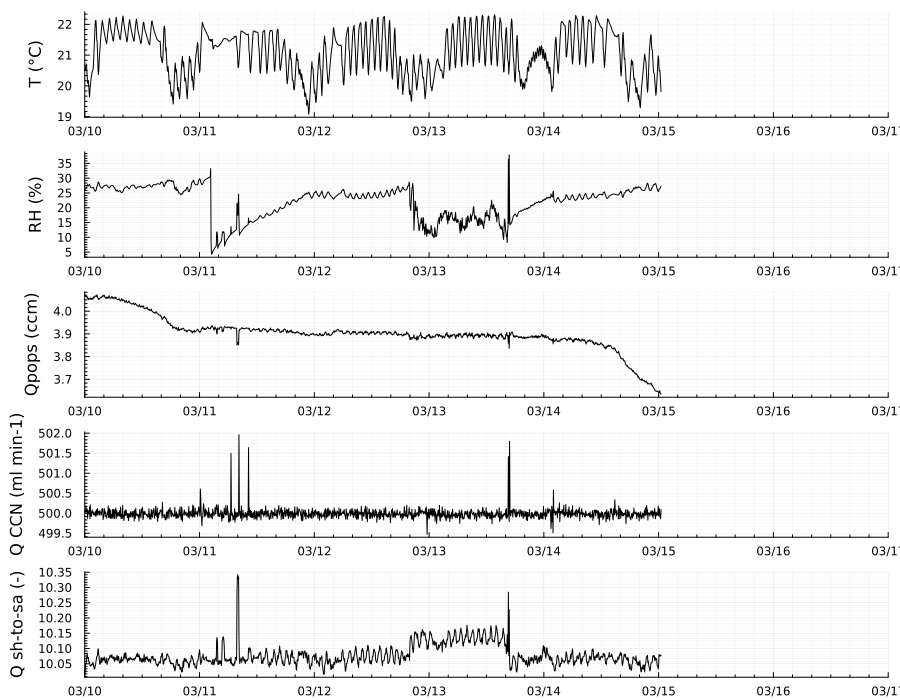
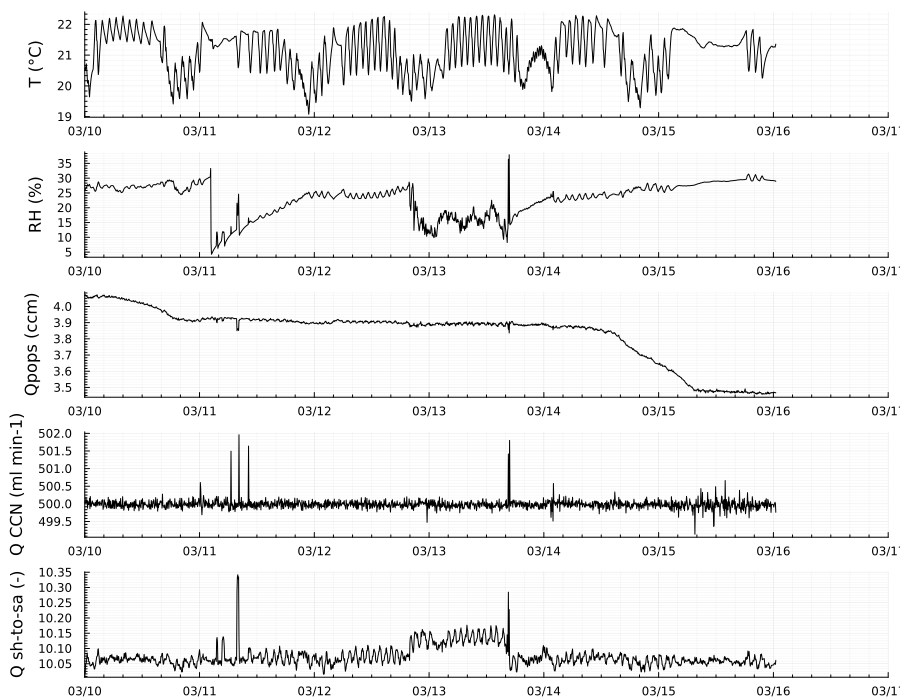
update site

diff --git a/index.html b/index.html
@@ -1,2 +1,2 @@
 <!DOCTYPE html>
-<html lang="en"><head><meta charset="UTF-8"/><meta name="viewport" content="width=device-width, initial-scale=1.0"/><title>Home · EPCAPE-CCN</title><script data-outdated-warner src="assets/warner.js"></script><link href="https://cdnjs.cloudflare.com/ajax/libs/lato-font/3.0.0/css/lato-font.min.css" rel="stylesheet" type="text/css"/><link href="https://cdnjs.cloudflare.com/ajax/libs/juliamono/0.045/juliamono.min.css" rel="stylesheet" type="text/css"/><link href="https://cdnjs.cloudflare.com/ajax/libs/font-awesome/5.15.4/css/fontawesome.min.css" rel="stylesheet" type="text/css"/><link href="https://cdnjs.cloudflare.com/ajax/libs/font-awesome/5.15.4/css/solid.min.css" rel="stylesheet" type="text/css"/><link href="https://cdnjs.cloudflare.com/ajax/libs/font-awesome/5.15.4/css/brands.min.css" rel="stylesheet" type="text/css"/><link href="https://cdnjs.cloudflare.com/ajax/libs/KaTeX/0.13.24/katex.min.css" rel="stylesheet" type="text/css"/><script>documenterBaseURL="."</script><script src="https://cdnjs.cloudflare.com/ajax/libs/require.js/2.3.6/require.min.js" data-main="assets/documenter.js"></script><script src="siteinfo.js"></script><script src="../versions.js"></script><link class="docs-theme-link" rel="stylesheet" type="text/css" href="assets/themes/documenter-dark.css" data-theme-name="documenter-dark" data-theme-primary-dark/><link class="docs-theme-link" rel="stylesheet" type="text/css" href="assets/themes/documenter-light.css" data-theme-name="documenter-light" data-theme-primary/><script src="assets/themeswap.js"></script></head><body><div id="documenter"><nav class="docs-sidebar"><a class="docs-logo" href><img src="assets/logo.jpg" alt="EPCAPE-CCN logo"/></a><div class="docs-package-name"><span class="docs-autofit"><a href>EPCAPE-CCN</a></span></div><form class="docs-search" action="search/"><input class="docs-search-query" id="documenter-search-query" name="q" type="text" placeholder="Search docs"/></form><ul class="docs-menu"><li class="is-active"><a class="tocitem" href>Home</a><ul class="internal"><li><a class="tocitem" href="#EPCAPE"><span>EPCAPE</span></a></li><li><a class="tocitem" href="#System"><span>System</span></a></li><li><a class="tocitem" href="#Location"><span>Location</span></a></li><li><a class="tocitem" href="#Contact"><span>Contact</span></a></li><li><a class="tocitem" href="#Acknowledgements"><span>Acknowledgements</span></a></li></ul></li><li><a class="tocitem" href="quicklook/">Quicklooks</a></li><li><a class="tocitem" href="housekeeping/">Housekeeping</a></li></ul><div class="docs-version-selector field has-addons"><div class="control"><span class="docs-label button is-static is-size-7">Version</span></div><div class="docs-selector control is-expanded"><div class="select is-fullwidth is-size-7"><select id="documenter-version-selector"></select></div></div></div></nav><div class="docs-main"><header class="docs-navbar"><nav class="breadcrumb"><ul class="is-hidden-mobile"><li class="is-active"><a href>Home</a></li></ul><ul class="is-hidden-tablet"><li class="is-active"><a href>Home</a></li></ul></nav><div class="docs-right"><a class="docs-edit-link" href="https://github.com/mdp-aerosol-group/epcapeDAQ/blob/main/site/src/index.md" title="Edit on GitHub"><span class="docs-icon fab"></span><span class="docs-label is-hidden-touch">Edit on GitHub</span></a><a class="docs-settings-button fas fa-cog" id="documenter-settings-button" href="#" title="Settings"></a><a class="docs-sidebar-button fa fa-bars is-hidden-desktop" id="documenter-sidebar-button" href="#"></a></div></header><article class="content" id="documenter-page"><h1 id="Home"><a class="docs-heading-anchor" href="#Home">Home</a><a id="Home-1"></a><a class="docs-heading-anchor-permalink" href="#Home" title="Permalink"></a></h1><h2 id="EPCAPE"><a class="docs-heading-anchor" href="#EPCAPE">EPCAPE</a><a id="EPCAPE-1"></a><a class="docs-heading-anchor-permalink" href="#EPCAPE" title="Permalink"></a></h2><p>The focus of the Eastern Pacific Cloud Aerosol Precipitation Experiment (EPCAPE) is to characterize the extent, radiative properties, aerosol interactions, and precipitation characteristics of stratocumulus clouds in the Eastern Pacific across all four seasons at a coastal location, such as the Scripps Pier and the Scripps Mt. Soledad sites in La Jolla. </p><p>This page is dedicated to host quicklooks for a portion of the NSF-funded addon EPCAPE-CCC project. The focus of EPCAPE-CCC is to explore aerosol and cloud chemistry interactions at the ancilliary Mt. Soledad site.</p><h2 id="System"><a class="docs-heading-anchor" href="#System">System</a><a id="System-1"></a><a class="docs-heading-anchor-permalink" href="#System" title="Permalink"></a></h2><p>NC State University is deploying a size-resolved CCN system that measures the particle size distribution and CCN distribution for denuded and undenuded CCN. </p><h2 id="Location"><a class="docs-heading-anchor" href="#Location">Location</a><a id="Location-1"></a><a class="docs-heading-anchor-permalink" href="#Location" title="Permalink"></a></h2><p>The system is located inside a trailer at the Mt. Soledad site, shown on the left of the image. The DOE-AMF is located at the Scripps Pier shown toward the right of the image. </p><p><img src="assets/site.jpeg" alt/></p><h2 id="Contact"><a class="docs-heading-anchor" href="#Contact">Contact</a><a id="Contact-1"></a><a class="docs-heading-anchor-permalink" href="#Contact" title="Permalink"></a></h2><p>Contact: Markus Petters, <a href="mailto:mdpetter@ncsu.edu">mdpetter@ncsu.edu</a>.</p><h2 id="Acknowledgements"><a class="docs-heading-anchor" href="#Acknowledgements">Acknowledgements</a><a id="Acknowledgements-1"></a><a class="docs-heading-anchor-permalink" href="#Acknowledgements" title="Permalink"></a></h2><p>The EPCAPE campaign is supported by the <a href="https://www.arm.gov/research/campaigns/amf2023epcape">DOE-ARM</a> program. The denuded CCN measurements are supported by National Science Foundation award NSF-AGS 2133183. </p></article><nav class="docs-footer"><a class="docs-footer-nextpage" href="quicklook/">Quicklooks »</a><div class="flexbox-break"></div><p class="footer-message">Powered by <a href="https://github.com/JuliaDocs/Documenter.jl">Documenter.jl</a> and the <a href="https://julialang.org/">Julia Programming Language</a>.</p></nav></div><div class="modal" id="documenter-settings"><div class="modal-background"></div><div class="modal-card"><header class="modal-card-head"><p class="modal-card-title">Settings</p><button class="delete"></button></header><section class="modal-card-body"><p><label class="label">Theme</label><div class="select"><select id="documenter-themepicker"><option value="documenter-light">documenter-light</option><option value="documenter-dark">documenter-dark</option></select></div></p><hr/><p>This document was generated with <a href="https://github.com/JuliaDocs/Documenter.jl">Documenter.jl</a> version 0.27.24 on <span class="colophon-date" title="Tuesday 14 March 2023 20:41">Tuesday 14 March 2023</span>. Using Julia version 1.8.5.</p></section><footer class="modal-card-foot"></footer></div></div></div></body></html>
+<html lang="en"><head><meta charset="UTF-8"/><meta name="viewport" content="width=device-width, initial-scale=1.0"/><title>Home · EPCAPE-CCN</title><script data-outdated-warner src="assets/warner.js"></script><link href="https://cdnjs.cloudflare.com/ajax/libs/lato-font/3.0.0/css/lato-font.min.css" rel="stylesheet" type="text/css"/><link href="https://cdnjs.cloudflare.com/ajax/libs/juliamono/0.045/juliamono.min.css" rel="stylesheet" type="text/css"/><link href="https://cdnjs.cloudflare.com/ajax/libs/font-awesome/5.15.4/css/fontawesome.min.css" rel="stylesheet" type="text/css"/><link href="https://cdnjs.cloudflare.com/ajax/libs/font-awesome/5.15.4/css/solid.min.css" rel="stylesheet" type="text/css"/><link href="https://cdnjs.cloudflare.com/ajax/libs/font-awesome/5.15.4/css/brands.min.css" rel="stylesheet" type="text/css"/><link href="https://cdnjs.cloudflare.com/ajax/libs/KaTeX/0.13.24/katex.min.css" rel="stylesheet" type="text/css"/><script>documenterBaseURL="."</script><script src="https://cdnjs.cloudflare.com/ajax/libs/require.js/2.3.6/require.min.js" data-main="assets/documenter.js"></script><script src="siteinfo.js"></script><script src="../versions.js"></script><link class="docs-theme-link" rel="stylesheet" type="text/css" href="assets/themes/documenter-dark.css" data-theme-name="documenter-dark" data-theme-primary-dark/><link class="docs-theme-link" rel="stylesheet" type="text/css" href="assets/themes/documenter-light.css" data-theme-name="documenter-light" data-theme-primary/><script src="assets/themeswap.js"></script></head><body><div id="documenter"><nav class="docs-sidebar"><a class="docs-logo" href><img src="assets/logo.jpg" alt="EPCAPE-CCN logo"/></a><div class="docs-package-name"><span class="docs-autofit"><a href>EPCAPE-CCN</a></span></div><form class="docs-search" action="search/"><input class="docs-search-query" id="documenter-search-query" name="q" type="text" placeholder="Search docs"/></form><ul class="docs-menu"><li class="is-active"><a class="tocitem" href>Home</a><ul class="internal"><li><a class="tocitem" href="#EPCAPE"><span>EPCAPE</span></a></li><li><a class="tocitem" href="#System"><span>System</span></a></li><li><a class="tocitem" href="#Location"><span>Location</span></a></li><li><a class="tocitem" href="#Contact"><span>Contact</span></a></li><li><a class="tocitem" href="#Acknowledgements"><span>Acknowledgements</span></a></li></ul></li><li><a class="tocitem" href="quicklook/">Quicklooks</a></li><li><a class="tocitem" href="housekeeping/">Housekeeping</a></li></ul><div class="docs-version-selector field has-addons"><div class="control"><span class="docs-label button is-static is-size-7">Version</span></div><div class="docs-selector control is-expanded"><div class="select is-fullwidth is-size-7"><select id="documenter-version-selector"></select></div></div></div></nav><div class="docs-main"><header class="docs-navbar"><nav class="breadcrumb"><ul class="is-hidden-mobile"><li class="is-active"><a href>Home</a></li></ul><ul class="is-hidden-tablet"><li class="is-active"><a href>Home</a></li></ul></nav><div class="docs-right"><a class="docs-edit-link" href="https://github.com/mdp-aerosol-group/epcapeDAQ/blob/main/site/src/index.md" title="Edit on GitHub"><span class="docs-icon fab"></span><span class="docs-label is-hidden-touch">Edit on GitHub</span></a><a class="docs-settings-button fas fa-cog" id="documenter-settings-button" href="#" title="Settings"></a><a class="docs-sidebar-button fa fa-bars is-hidden-desktop" id="documenter-sidebar-button" href="#"></a></div></header><article class="content" id="documenter-page"><h1 id="Home"><a class="docs-heading-anchor" href="#Home">Home</a><a id="Home-1"></a><a class="docs-heading-anchor-permalink" href="#Home" title="Permalink"></a></h1><h2 id="EPCAPE"><a class="docs-heading-anchor" href="#EPCAPE">EPCAPE</a><a id="EPCAPE-1"></a><a class="docs-heading-anchor-permalink" href="#EPCAPE" title="Permalink"></a></h2><p>The focus of the Eastern Pacific Cloud Aerosol Precipitation Experiment (EPCAPE) is to characterize the extent, radiative properties, aerosol interactions, and precipitation characteristics of stratocumulus clouds in the Eastern Pacific across all four seasons at a coastal location, such as the Scripps Pier and the Scripps Mt. Soledad sites in La Jolla. </p><p>This page is dedicated to host quicklooks for a portion of the NSF-funded addon EPCAPE-CCC project. The focus of EPCAPE-CCC is to explore aerosol and cloud chemistry interactions at the ancilliary Mt. Soledad site.</p><h2 id="System"><a class="docs-heading-anchor" href="#System">System</a><a id="System-1"></a><a class="docs-heading-anchor-permalink" href="#System" title="Permalink"></a></h2><p>NC State University is deploying a size-resolved CCN system that measures the particle size distribution and CCN distribution for denuded and undenuded CCN. </p><h2 id="Location"><a class="docs-heading-anchor" href="#Location">Location</a><a id="Location-1"></a><a class="docs-heading-anchor-permalink" href="#Location" title="Permalink"></a></h2><p>The system is located inside a trailer at the Mt. Soledad site, shown on the left of the image. The DOE-AMF is located at the Scripps Pier shown toward the right of the image. </p><p><img src="assets/site.jpeg" alt/></p><h2 id="Contact"><a class="docs-heading-anchor" href="#Contact">Contact</a><a id="Contact-1"></a><a class="docs-heading-anchor-permalink" href="#Contact" title="Permalink"></a></h2><p>Contact: Markus Petters, <a href="mailto:mdpetter@ncsu.edu">mdpetter@ncsu.edu</a>.</p><h2 id="Acknowledgements"><a class="docs-heading-anchor" href="#Acknowledgements">Acknowledgements</a><a id="Acknowledgements-1"></a><a class="docs-heading-anchor-permalink" href="#Acknowledgements" title="Permalink"></a></h2><p>The EPCAPE campaign is supported by the <a href="https://www.arm.gov/research/campaigns/amf2023epcape">DOE-ARM</a> program. The denuded CCN measurements are supported by National Science Foundation award NSF-AGS 2133183. </p></article><nav class="docs-footer"><a class="docs-footer-nextpage" href="quicklook/">Quicklooks »</a><div class="flexbox-break"></div><p class="footer-message">Powered by <a href="https://github.com/JuliaDocs/Documenter.jl">Documenter.jl</a> and the <a href="https://julialang.org/">Julia Programming Language</a>.</p></nav></div><div class="modal" id="documenter-settings"><div class="modal-background"></div><div class="modal-card"><header class="modal-card-head"><p class="modal-card-title">Settings</p><button class="delete"></button></header><section class="modal-card-body"><p><label class="label">Theme</label><div class="select"><select id="documenter-themepicker"><option value="documenter-light">documenter-light</option><option value="documenter-dark">documenter-dark</option></select></div></p><hr/><p>This document was generated with <a href="https://github.com/JuliaDocs/Documenter.jl">Documenter.jl</a> version 0.27.24 on <span class="colophon-date" title="Wednesday 15 March 2023 20:40">Wednesday 15 March 2023</span>. Using Julia version 1.8.5.</p></section><footer class="modal-card-foot"></footer></div></div></div></body></html>

diff --git a/quicklook/index.html b/quicklook/index.html
@@ -1,2 +1,2 @@
 <!DOCTYPE html>
-<html lang="en"><head><meta charset="UTF-8"/><meta name="viewport" content="width=device-width, initial-scale=1.0"/><title>Quicklooks · EPCAPE-CCN</title><script data-outdated-warner src="../assets/warner.js"></script><link href="https://cdnjs.cloudflare.com/ajax/libs/lato-font/3.0.0/css/lato-font.min.css" rel="stylesheet" type="text/css"/><link href="https://cdnjs.cloudflare.com/ajax/libs/juliamono/0.045/juliamono.min.css" rel="stylesheet" type="text/css"/><link href="https://cdnjs.cloudflare.com/ajax/libs/font-awesome/5.15.4/css/fontawesome.min.css" rel="stylesheet" type="text/css"/><link href="https://cdnjs.cloudflare.com/ajax/libs/font-awesome/5.15.4/css/solid.min.css" rel="stylesheet" type="text/css"/><link href="https://cdnjs.cloudflare.com/ajax/libs/font-awesome/5.15.4/css/brands.min.css" rel="stylesheet" type="text/css"/><link href="https://cdnjs.cloudflare.com/ajax/libs/KaTeX/0.13.24/katex.min.css" rel="stylesheet" type="text/css"/><script>documenterBaseURL=".."</script><script src="https://cdnjs.cloudflare.com/ajax/libs/require.js/2.3.6/require.min.js" data-main="../assets/documenter.js"></script><script src="../siteinfo.js"></script><script src="../../versions.js"></script><link class="docs-theme-link" rel="stylesheet" type="text/css" href="../assets/themes/documenter-dark.css" data-theme-name="documenter-dark" data-theme-primary-dark/><link class="docs-theme-link" rel="stylesheet" type="text/css" href="../assets/themes/documenter-light.css" data-theme-name="documenter-light" data-theme-primary/><script src="../assets/themeswap.js"></script></head><body><div id="documenter"><nav class="docs-sidebar"><a class="docs-logo" href="../"><img src="../assets/logo.jpg" alt="EPCAPE-CCN logo"/></a><div class="docs-package-name"><span class="docs-autofit"><a href="../">EPCAPE-CCN</a></span></div><form class="docs-search" action="../search/"><input class="docs-search-query" id="documenter-search-query" name="q" type="text" placeholder="Search docs"/></form><ul class="docs-menu"><li><a class="tocitem" href="../">Home</a></li><li class="is-active"><a class="tocitem" href>Quicklooks</a><ul class="internal"><li><a class="tocitem" href="#/10-02/17"><span>02/10 - 02/17</span></a></li><li><a class="tocitem" href="#/17-02/24"><span>02/17 - 02/24</span></a></li><li><a class="tocitem" href="#/24-03/03"><span>02/24 - 03/03</span></a></li><li><a class="tocitem" href="#/03-03/10"><span>03/03 - 03/10</span></a></li><li><a class="tocitem" href="#/10-03/17"><span>03/10 - 03/17</span></a></li></ul></li><li><a class="tocitem" href="../housekeeping/">Housekeeping</a></li></ul><div class="docs-version-selector field has-addons"><div class="control"><span class="docs-label button is-static is-size-7">Version</span></div><div class="docs-selector control is-expanded"><div class="select is-fullwidth is-size-7"><select id="documenter-version-selector"></select></div></div></div></nav><div class="docs-main"><header class="docs-navbar"><nav class="breadcrumb"><ul class="is-hidden-mobile"><li class="is-active"><a href>Quicklooks</a></li></ul><ul class="is-hidden-tablet"><li class="is-active"><a href>Quicklooks</a></li></ul></nav><div class="docs-right"><a class="docs-edit-link" href="https://github.com/mdp-aerosol-group/epcapeDAQ/blob/main/site/src/quicklook.md" title="Edit on GitHub"><span class="docs-icon fab"></span><span class="docs-label is-hidden-touch">Edit on GitHub</span></a><a class="docs-settings-button fas fa-cog" id="documenter-settings-button" href="#" title="Settings"></a><a class="docs-sidebar-button fa fa-bars is-hidden-desktop" id="documenter-sidebar-button" href="#"></a></div></header><article class="content" id="documenter-page"><h2 id="/10-02/17"><a class="docs-heading-anchor" href="#/10-02/17">02/10 - 02/17</a><a id="/10-02/17-1"></a><a class="docs-heading-anchor-permalink" href="#/10-02/17" title="Permalink"></a></h2><p><img src="../assets/quicklooks/20230210_ql.png" alt/></p><h2 id="/17-02/24"><a class="docs-heading-anchor" href="#/17-02/24">02/17 - 02/24</a><a id="/17-02/24-1"></a><a class="docs-heading-anchor-permalink" href="#/17-02/24" title="Permalink"></a></h2><p><img src="../assets/quicklooks/20230217_ql.png" alt/></p><h2 id="/24-03/03"><a class="docs-heading-anchor" href="#/24-03/03">02/24 - 03/03</a><a id="/24-03/03-1"></a><a class="docs-heading-anchor-permalink" href="#/24-03/03" title="Permalink"></a></h2><p><img src="../assets/quicklooks/20230224_ql.png" alt/></p><h2 id="/03-03/10"><a class="docs-heading-anchor" href="#/03-03/10">03/03 - 03/10</a><a id="/03-03/10-1"></a><a class="docs-heading-anchor-permalink" href="#/03-03/10" title="Permalink"></a></h2><p><img src="../assets/quicklooks/20230303_ql.png" alt/></p><h2 id="/10-03/17"><a class="docs-heading-anchor" href="#/10-03/17">03/10 - 03/17</a><a id="/10-03/17-1"></a><a class="docs-heading-anchor-permalink" href="#/10-03/17" title="Permalink"></a></h2><p><img src="../assets/quicklooks/20230310_ql.png" alt/></p></article><nav class="docs-footer"><a class="docs-footer-prevpage" href="../">« Home</a><a class="docs-footer-nextpage" href="../housekeeping/">Housekeeping »</a><div class="flexbox-break"></div><p class="footer-message">Powered by <a href="https://github.com/JuliaDocs/Documenter.jl">Documenter.jl</a> and the <a href="https://julialang.org/">Julia Programming Language</a>.</p></nav></div><div class="modal" id="documenter-settings"><div class="modal-background"></div><div class="modal-card"><header class="modal-card-head"><p class="modal-card-title">Settings</p><button class="delete"></button></header><section class="modal-card-body"><p><label class="label">Theme</label><div class="select"><select id="documenter-themepicker"><option value="documenter-light">documenter-light</option><option value="documenter-dark">documenter-dark</option></select></div></p><hr/><p>This document was generated with <a href="https://github.com/JuliaDocs/Documenter.jl">Documenter.jl</a> version 0.27.24 on <span class="colophon-date" title="Tuesday 14 March 2023 20:41">Tuesday 14 March 2023</span>. Using Julia version 1.8.5.</p></section><footer class="modal-card-foot"></footer></div></div></div></body></html>
+<html lang="en"><head><meta charset="UTF-8"/><meta name="viewport" content="width=device-width, initial-scale=1.0"/><title>Quicklooks · EPCAPE-CCN</title><script data-outdated-warner src="../assets/warner.js"></script><link href="https://cdnjs.cloudflare.com/ajax/libs/lato-font/3.0.0/css/lato-font.min.css" rel="stylesheet" type="text/css"/><link href="https://cdnjs.cloudflare.com/ajax/libs/juliamono/0.045/juliamono.min.css" rel="stylesheet" type="text/css"/><link href="https://cdnjs.cloudflare.com/ajax/libs/font-awesome/5.15.4/css/fontawesome.min.css" rel="stylesheet" type="text/css"/><link href="https://cdnjs.cloudflare.com/ajax/libs/font-awesome/5.15.4/css/solid.min.css" rel="stylesheet" type="text/css"/><link href="https://cdnjs.cloudflare.com/ajax/libs/font-awesome/5.15.4/css/brands.min.css" rel="stylesheet" type="text/css"/><link href="https://cdnjs.cloudflare.com/ajax/libs/KaTeX/0.13.24/katex.min.css" rel="stylesheet" type="text/css"/><script>documenterBaseURL=".."</script><script src="https://cdnjs.cloudflare.com/ajax/libs/require.js/2.3.6/require.min.js" data-main="../assets/documenter.js"></script><script src="../siteinfo.js"></script><script src="../../versions.js"></script><link class="docs-theme-link" rel="stylesheet" type="text/css" href="../assets/themes/documenter-dark.css" data-theme-name="documenter-dark" data-theme-primary-dark/><link class="docs-theme-link" rel="stylesheet" type="text/css" href="../assets/themes/documenter-light.css" data-theme-name="documenter-light" data-theme-primary/><script src="../assets/themeswap.js"></script></head><body><div id="documenter"><nav class="docs-sidebar"><a class="docs-logo" href="../"><img src="../assets/logo.jpg" alt="EPCAPE-CCN logo"/></a><div class="docs-package-name"><span class="docs-autofit"><a href="../">EPCAPE-CCN</a></span></div><form class="docs-search" action="../search/"><input class="docs-search-query" id="documenter-search-query" name="q" type="text" placeholder="Search docs"/></form><ul class="docs-menu"><li><a class="tocitem" href="../">Home</a></li><li class="is-active"><a class="tocitem" href>Quicklooks</a><ul class="internal"><li><a class="tocitem" href="#/10-02/17"><span>02/10 - 02/17</span></a></li><li><a class="tocitem" href="#/17-02/24"><span>02/17 - 02/24</span></a></li><li><a class="tocitem" href="#/24-03/03"><span>02/24 - 03/03</span></a></li><li><a class="tocitem" href="#/03-03/10"><span>03/03 - 03/10</span></a></li><li><a class="tocitem" href="#/10-03/17"><span>03/10 - 03/17</span></a></li></ul></li><li><a class="tocitem" href="../housekeeping/">Housekeeping</a></li></ul><div class="docs-version-selector field has-addons"><div class="control"><span class="docs-label button is-static is-size-7">Version</span></div><div class="docs-selector control is-expanded"><div class="select is-fullwidth is-size-7"><select id="documenter-version-selector"></select></div></div></div></nav><div class="docs-main"><header class="docs-navbar"><nav class="breadcrumb"><ul class="is-hidden-mobile"><li class="is-active"><a href>Quicklooks</a></li></ul><ul class="is-hidden-tablet"><li class="is-active"><a href>Quicklooks</a></li></ul></nav><div class="docs-right"><a class="docs-edit-link" href="https://github.com/mdp-aerosol-group/epcapeDAQ/blob/main/site/src/quicklook.md" title="Edit on GitHub"><span class="docs-icon fab"></span><span class="docs-label is-hidden-touch">Edit on GitHub</span></a><a class="docs-settings-button fas fa-cog" id="documenter-settings-button" href="#" title="Settings"></a><a class="docs-sidebar-button fa fa-bars is-hidden-desktop" id="documenter-sidebar-button" href="#"></a></div></header><article class="content" id="documenter-page"><h2 id="/10-02/17"><a class="docs-heading-anchor" href="#/10-02/17">02/10 - 02/17</a><a id="/10-02/17-1"></a><a class="docs-heading-anchor-permalink" href="#/10-02/17" title="Permalink"></a></h2><p><img src="../assets/quicklooks/20230210_ql.png" alt/></p><h2 id="/17-02/24"><a class="docs-heading-anchor" href="#/17-02/24">02/17 - 02/24</a><a id="/17-02/24-1"></a><a class="docs-heading-anchor-permalink" href="#/17-02/24" title="Permalink"></a></h2><p><img src="../assets/quicklooks/20230217_ql.png" alt/></p><h2 id="/24-03/03"><a class="docs-heading-anchor" href="#/24-03/03">02/24 - 03/03</a><a id="/24-03/03-1"></a><a class="docs-heading-anchor-permalink" href="#/24-03/03" title="Permalink"></a></h2><p><img src="../assets/quicklooks/20230224_ql.png" alt/></p><h2 id="/03-03/10"><a class="docs-heading-anchor" href="#/03-03/10">03/03 - 03/10</a><a id="/03-03/10-1"></a><a class="docs-heading-anchor-permalink" href="#/03-03/10" title="Permalink"></a></h2><p><img src="../assets/quicklooks/20230303_ql.png" alt/></p><h2 id="/10-03/17"><a class="docs-heading-anchor" href="#/10-03/17">03/10 - 03/17</a><a id="/10-03/17-1"></a><a class="docs-heading-anchor-permalink" href="#/10-03/17" title="Permalink"></a></h2><p><img src="../assets/quicklooks/20230310_ql.png" alt/></p></article><nav class="docs-footer"><a class="docs-footer-prevpage" href="../">« Home</a><a class="docs-footer-nextpage" href="../housekeeping/">Housekeeping »</a><div class="flexbox-break"></div><p class="footer-message">Powered by <a href="https://github.com/JuliaDocs/Documenter.jl">Documenter.jl</a> and the <a href="https://julialang.org/">Julia Programming Language</a>.</p></nav></div><div class="modal" id="documenter-settings"><div class="modal-background"></div><div class="modal-card"><header class="modal-card-head"><p class="modal-card-title">Settings</p><button class="delete"></button></header><section class="modal-card-body"><p><label class="label">Theme</label><div class="select"><select id="documenter-themepicker"><option value="documenter-light">documenter-light</option><option value="documenter-dark">documenter-dark</option></select></div></p><hr/><p>This document was generated with <a href="https://github.com/JuliaDocs/Documenter.jl">Documenter.jl</a> version 0.27.24 on <span class="colophon-date" title="Wednesday 15 March 2023 20:40">Wednesday 15 March 2023</span>. Using Julia version 1.8.5.</p></section><footer class="modal-card-foot"></footer></div></div></div></body></html>

diff --git a/housekeeping/index.html b/housekeeping/index.html
@@ -1,2 +1,2 @@
 <!DOCTYPE html>
-<html lang="en"><head><meta charset="UTF-8"/><meta name="viewport" content="width=device-width, initial-scale=1.0"/><title>Housekeeping · EPCAPE-CCN</title><script data-outdated-warner src="../assets/warner.js"></script><link href="https://cdnjs.cloudflare.com/ajax/libs/lato-font/3.0.0/css/lato-font.min.css" rel="stylesheet" type="text/css"/><link href="https://cdnjs.cloudflare.com/ajax/libs/juliamono/0.045/juliamono.min.css" rel="stylesheet" type="text/css"/><link href="https://cdnjs.cloudflare.com/ajax/libs/font-awesome/5.15.4/css/fontawesome.min.css" rel="stylesheet" type="text/css"/><link href="https://cdnjs.cloudflare.com/ajax/libs/font-awesome/5.15.4/css/solid.min.css" rel="stylesheet" type="text/css"/><link href="https://cdnjs.cloudflare.com/ajax/libs/font-awesome/5.15.4/css/brands.min.css" rel="stylesheet" type="text/css"/><link href="https://cdnjs.cloudflare.com/ajax/libs/KaTeX/0.13.24/katex.min.css" rel="stylesheet" type="text/css"/><script>documenterBaseURL=".."</script><script src="https://cdnjs.cloudflare.com/ajax/libs/require.js/2.3.6/require.min.js" data-main="../assets/documenter.js"></script><script src="../siteinfo.js"></script><script src="../../versions.js"></script><link class="docs-theme-link" rel="stylesheet" type="text/css" href="../assets/themes/documenter-dark.css" data-theme-name="documenter-dark" data-theme-primary-dark/><link class="docs-theme-link" rel="stylesheet" type="text/css" href="../assets/themes/documenter-light.css" data-theme-name="documenter-light" data-theme-primary/><script src="../assets/themeswap.js"></script></head><body><div id="documenter"><nav class="docs-sidebar"><a class="docs-logo" href="../"><img src="../assets/logo.jpg" alt="EPCAPE-CCN logo"/></a><div class="docs-package-name"><span class="docs-autofit"><a href="../">EPCAPE-CCN</a></span></div><form class="docs-search" action="../search/"><input class="docs-search-query" id="documenter-search-query" name="q" type="text" placeholder="Search docs"/></form><ul class="docs-menu"><li><a class="tocitem" href="../">Home</a></li><li><a class="tocitem" href="../quicklook/">Quicklooks</a></li><li class="is-active"><a class="tocitem" href>Housekeeping</a><ul class="internal"><li><a class="tocitem" href="#/10-02/17"><span>02/10 - 02/17</span></a></li><li><a class="tocitem" href="#/17-02/24"><span>02/17 - 02/24</span></a></li><li><a class="tocitem" href="#/24-03/03"><span>02/24 - 03/03</span></a></li><li><a class="tocitem" href="#/03-03/10"><span>03/03 - 03/10</span></a></li><li><a class="tocitem" href="#/10-03/17"><span>03/10 - 03/17</span></a></li></ul></li></ul><div class="docs-version-selector field has-addons"><div class="control"><span class="docs-label button is-static is-size-7">Version</span></div><div class="docs-selector control is-expanded"><div class="select is-fullwidth is-size-7"><select id="documenter-version-selector"></select></div></div></div></nav><div class="docs-main"><header class="docs-navbar"><nav class="breadcrumb"><ul class="is-hidden-mobile"><li class="is-active"><a href>Housekeeping</a></li></ul><ul class="is-hidden-tablet"><li class="is-active"><a href>Housekeeping</a></li></ul></nav><div class="docs-right"><a class="docs-edit-link" href="https://github.com/mdp-aerosol-group/epcapeDAQ/blob/main/site/src/housekeeping.md" title="Edit on GitHub"><span class="docs-icon fab"></span><span class="docs-label is-hidden-touch">Edit on GitHub</span></a><a class="docs-settings-button fas fa-cog" id="documenter-settings-button" href="#" title="Settings"></a><a class="docs-sidebar-button fa fa-bars is-hidden-desktop" id="documenter-sidebar-button" href="#"></a></div></header><article class="content" id="documenter-page"><h2 id="/10-02/17"><a class="docs-heading-anchor" href="#/10-02/17">02/10 - 02/17</a><a id="/10-02/17-1"></a><a class="docs-heading-anchor-permalink" href="#/10-02/17" title="Permalink"></a></h2><p><img src="../assets/hk/20230210_hk.png" alt/></p><h2 id="/17-02/24"><a class="docs-heading-anchor" href="#/17-02/24">02/17 - 02/24</a><a id="/17-02/24-1"></a><a class="docs-heading-anchor-permalink" href="#/17-02/24" title="Permalink"></a></h2><p><img src="../assets/hk/20230217_hk.png" alt/></p><h2 id="/24-03/03"><a class="docs-heading-anchor" href="#/24-03/03">02/24 - 03/03</a><a id="/24-03/03-1"></a><a class="docs-heading-anchor-permalink" href="#/24-03/03" title="Permalink"></a></h2><p><img src="../assets/hk/20230224_hk.png" alt/></p><h2 id="/03-03/10"><a class="docs-heading-anchor" href="#/03-03/10">03/03 - 03/10</a><a id="/03-03/10-1"></a><a class="docs-heading-anchor-permalink" href="#/03-03/10" title="Permalink"></a></h2><p><img src="../assets/hk/20230303_hk.png" alt/></p><h2 id="/10-03/17"><a class="docs-heading-anchor" href="#/10-03/17">03/10 - 03/17</a><a id="/10-03/17-1"></a><a class="docs-heading-anchor-permalink" href="#/10-03/17" title="Permalink"></a></h2><p><img src="../assets/hk/20230310_hk.png" alt/></p></article><nav class="docs-footer"><a class="docs-footer-prevpage" href="../quicklook/">« Quicklooks</a><div class="flexbox-break"></div><p class="footer-message">Powered by <a href="https://github.com/JuliaDocs/Documenter.jl">Documenter.jl</a> and the <a href="https://julialang.org/">Julia Programming Language</a>.</p></nav></div><div class="modal" id="documenter-settings"><div class="modal-background"></div><div class="modal-card"><header class="modal-card-head"><p class="modal-card-title">Settings</p><button class="delete"></button></header><section class="modal-card-body"><p><label class="label">Theme</label><div class="select"><select id="documenter-themepicker"><option value="documenter-light">documenter-light</option><option value="documenter-dark">documenter-dark</option></select></div></p><hr/><p>This document was generated with <a href="https://github.com/JuliaDocs/Documenter.jl">Documenter.jl</a> version 0.27.24 on <span class="colophon-date" title="Tuesday 14 March 2023 20:41">Tuesday 14 March 2023</span>. Using Julia version 1.8.5.</p></section><footer class="modal-card-foot"></footer></div></div></div></body></html>
+<html lang="en"><head><meta charset="UTF-8"/><meta name="viewport" content="width=device-width, initial-scale=1.0"/><title>Housekeeping · EPCAPE-CCN</title><script data-outdated-warner src="../assets/warner.js"></script><link href="https://cdnjs.cloudflare.com/ajax/libs/lato-font/3.0.0/css/lato-font.min.css" rel="stylesheet" type="text/css"/><link href="https://cdnjs.cloudflare.com/ajax/libs/juliamono/0.045/juliamono.min.css" rel="stylesheet" type="text/css"/><link href="https://cdnjs.cloudflare.com/ajax/libs/font-awesome/5.15.4/css/fontawesome.min.css" rel="stylesheet" type="text/css"/><link href="https://cdnjs.cloudflare.com/ajax/libs/font-awesome/5.15.4/css/solid.min.css" rel="stylesheet" type="text/css"/><link href="https://cdnjs.cloudflare.com/ajax/libs/font-awesome/5.15.4/css/brands.min.css" rel="stylesheet" type="text/css"/><link href="https://cdnjs.cloudflare.com/ajax/libs/KaTeX/0.13.24/katex.min.css" rel="stylesheet" type="text/css"/><script>documenterBaseURL=".."</script><script src="https://cdnjs.cloudflare.com/ajax/libs/require.js/2.3.6/require.min.js" data-main="../assets/documenter.js"></script><script src="../siteinfo.js"></script><script src="../../versions.js"></script><link class="docs-theme-link" rel="stylesheet" type="text/css" href="../assets/themes/documenter-dark.css" data-theme-name="documenter-dark" data-theme-primary-dark/><link class="docs-theme-link" rel="stylesheet" type="text/css" href="../assets/themes/documenter-light.css" data-theme-name="documenter-light" data-theme-primary/><script src="../assets/themeswap.js"></script></head><body><div id="documenter"><nav class="docs-sidebar"><a class="docs-logo" href="../"><img src="../assets/logo.jpg" alt="EPCAPE-CCN logo"/></a><div class="docs-package-name"><span class="docs-autofit"><a href="../">EPCAPE-CCN</a></span></div><form class="docs-search" action="../search/"><input class="docs-search-query" id="documenter-search-query" name="q" type="text" placeholder="Search docs"/></form><ul class="docs-menu"><li><a class="tocitem" href="../">Home</a></li><li><a class="tocitem" href="../quicklook/">Quicklooks</a></li><li class="is-active"><a class="tocitem" href>Housekeeping</a><ul class="internal"><li><a class="tocitem" href="#/10-02/17"><span>02/10 - 02/17</span></a></li><li><a class="tocitem" href="#/17-02/24"><span>02/17 - 02/24</span></a></li><li><a class="tocitem" href="#/24-03/03"><span>02/24 - 03/03</span></a></li><li><a class="tocitem" href="#/03-03/10"><span>03/03 - 03/10</span></a></li><li><a class="tocitem" href="#/10-03/17"><span>03/10 - 03/17</span></a></li></ul></li></ul><div class="docs-version-selector field has-addons"><div class="control"><span class="docs-label button is-static is-size-7">Version</span></div><div class="docs-selector control is-expanded"><div class="select is-fullwidth is-size-7"><select id="documenter-version-selector"></select></div></div></div></nav><div class="docs-main"><header class="docs-navbar"><nav class="breadcrumb"><ul class="is-hidden-mobile"><li class="is-active"><a href>Housekeeping</a></li></ul><ul class="is-hidden-tablet"><li class="is-active"><a href>Housekeeping</a></li></ul></nav><div class="docs-right"><a class="docs-edit-link" href="https://github.com/mdp-aerosol-group/epcapeDAQ/blob/main/site/src/housekeeping.md" title="Edit on GitHub"><span class="docs-icon fab"></span><span class="docs-label is-hidden-touch">Edit on GitHub</span></a><a class="docs-settings-button fas fa-cog" id="documenter-settings-button" href="#" title="Settings"></a><a class="docs-sidebar-button fa fa-bars is-hidden-desktop" id="documenter-sidebar-button" href="#"></a></div></header><article class="content" id="documenter-page"><h2 id="/10-02/17"><a class="docs-heading-anchor" href="#/10-02/17">02/10 - 02/17</a><a id="/10-02/17-1"></a><a class="docs-heading-anchor-permalink" href="#/10-02/17" title="Permalink"></a></h2><p><img src="../assets/hk/20230210_hk.png" alt/></p><h2 id="/17-02/24"><a class="docs-heading-anchor" href="#/17-02/24">02/17 - 02/24</a><a id="/17-02/24-1"></a><a class="docs-heading-anchor-permalink" href="#/17-02/24" title="Permalink"></a></h2><p><img src="../assets/hk/20230217_hk.png" alt/></p><h2 id="/24-03/03"><a class="docs-heading-anchor" href="#/24-03/03">02/24 - 03/03</a><a id="/24-03/03-1"></a><a class="docs-heading-anchor-permalink" href="#/24-03/03" title="Permalink"></a></h2><p><img src="../assets/hk/20230224_hk.png" alt/></p><h2 id="/03-03/10"><a class="docs-heading-anchor" href="#/03-03/10">03/03 - 03/10</a><a id="/03-03/10-1"></a><a class="docs-heading-anchor-permalink" href="#/03-03/10" title="Permalink"></a></h2><p><img src="../assets/hk/20230303_hk.png" alt/></p><h2 id="/10-03/17"><a class="docs-heading-anchor" href="#/10-03/17">03/10 - 03/17</a><a id="/10-03/17-1"></a><a class="docs-heading-anchor-permalink" href="#/10-03/17" title="Permalink"></a></h2><p><img src="../assets/hk/20230310_hk.png" alt/></p></article><nav class="docs-footer"><a class="docs-footer-prevpage" href="../quicklook/">« Quicklooks</a><div class="flexbox-break"></div><p class="footer-message">Powered by <a href="https://github.com/JuliaDocs/Documenter.jl">Documenter.jl</a> and the <a href="https://julialang.org/">Julia Programming Language</a>.</p></nav></div><div class="modal" id="documenter-settings"><div class="modal-background"></div><div class="modal-card"><header class="modal-card-head"><p class="modal-card-title">Settings</p><button class="delete"></button></header><section class="modal-card-body"><p><label class="label">Theme</label><div class="select"><select id="documenter-themepicker"><option value="documenter-light">documenter-light</option><option value="documenter-dark">documenter-dark</option></select></div></p><hr/><p>This document was generated with <a href="https://github.com/JuliaDocs/Documenter.jl">Documenter.jl</a> version 0.27.24 on <span class="colophon-date" title="Wednesday 15 March 2023 20:40">Wednesday 15 March 2023</span>. Using Julia version 1.8.5.</p></section><footer class="modal-card-foot"></footer></div></div></div></body></html>

diff --git a/search/index.html b/search/index.html
@@ -1,2 +1,2 @@
 <!DOCTYPE html>
-<html lang="en"><head><meta charset="UTF-8"/><meta name="viewport" content="width=device-width, initial-scale=1.0"/><title>Search · EPCAPE-CCN</title><script data-outdated-warner src="../assets/warner.js"></script><link href="https://cdnjs.cloudflare.com/ajax/libs/lato-font/3.0.0/css/lato-font.min.css" rel="stylesheet" type="text/css"/><link href="https://cdnjs.cloudflare.com/ajax/libs/juliamono/0.045/juliamono.min.css" rel="stylesheet" type="text/css"/><link href="https://cdnjs.cloudflare.com/ajax/libs/font-awesome/5.15.4/css/fontawesome.min.css" rel="stylesheet" type="text/css"/><link href="https://cdnjs.cloudflare.com/ajax/libs/font-awesome/5.15.4/css/solid.min.css" rel="stylesheet" type="text/css"/><link href="https://cdnjs.cloudflare.com/ajax/libs/font-awesome/5.15.4/css/brands.min.css" rel="stylesheet" type="text/css"/><link href="https://cdnjs.cloudflare.com/ajax/libs/KaTeX/0.13.24/katex.min.css" rel="stylesheet" type="text/css"/><script>documenterBaseURL=".."</script><script src="https://cdnjs.cloudflare.com/ajax/libs/require.js/2.3.6/require.min.js" data-main="../assets/documenter.js"></script><script src="../siteinfo.js"></script><script src="../../versions.js"></script><link class="docs-theme-link" rel="stylesheet" type="text/css" href="../assets/themes/documenter-dark.css" data-theme-name="documenter-dark" data-theme-primary-dark/><link class="docs-theme-link" rel="stylesheet" type="text/css" href="../assets/themes/documenter-light.css" data-theme-name="documenter-light" data-theme-primary/><script src="../assets/themeswap.js"></script></head><body><div id="documenter"><nav class="docs-sidebar"><a class="docs-logo" href="../"><img src="../assets/logo.jpg" alt="EPCAPE-CCN logo"/></a><div class="docs-package-name"><span class="docs-autofit"><a href="../">EPCAPE-CCN</a></span></div><form class="docs-search" action><input class="docs-search-query" id="documenter-search-query" name="q" type="text" placeholder="Search docs"/></form><ul class="docs-menu"><li><a class="tocitem" href="../">Home</a></li><li><a class="tocitem" href="../quicklook/">Quicklooks</a></li><li><a class="tocitem" href="../housekeeping/">Housekeeping</a></li></ul><div class="docs-version-selector field has-addons"><div class="control"><span class="docs-label button is-static is-size-7">Version</span></div><div class="docs-selector control is-expanded"><div class="select is-fullwidth is-size-7"><select id="documenter-version-selector"></select></div></div></div></nav><div class="docs-main"><header class="docs-navbar"><nav class="breadcrumb"><ul class="is-hidden-mobile"><li class="is-active"><a href>Search</a></li></ul><ul class="is-hidden-tablet"><li class="is-active"><a href>Search</a></li></ul></nav><div class="docs-right"><a class="docs-settings-button fas fa-cog" id="documenter-settings-button" href="#" title="Settings"></a><a class="docs-sidebar-button fa fa-bars is-hidden-desktop" id="documenter-sidebar-button" href="#"></a></div></header><article><p id="documenter-search-info">Loading search...</p><ul id="documenter-search-results"></ul></article><nav class="docs-footer"><p class="footer-message">Powered by <a href="https://github.com/JuliaDocs/Documenter.jl">Documenter.jl</a> and the <a href="https://julialang.org/">Julia Programming Language</a>.</p></nav></div><div class="modal" id="documenter-settings"><div class="modal-background"></div><div class="modal-card"><header class="modal-card-head"><p class="modal-card-title">Settings</p><button class="delete"></button></header><section class="modal-card-body"><p><label class="label">Theme</label><div class="select"><select id="documenter-themepicker"><option value="documenter-light">documenter-light</option><option value="documenter-dark">documenter-dark</option></select></div></p><hr/><p>This document was generated with <a href="https://github.com/JuliaDocs/Documenter.jl">Documenter.jl</a> version 0.27.24 on <span class="colophon-date" title="Tuesday 14 March 2023 20:41">Tuesday 14 March 2023</span>. Using Julia version 1.8.5.</p></section><footer class="modal-card-foot"></footer></div></div></div></body><script src="../search_index.js"></script><script src="../assets/search.js"></script></html>
+<html lang="en"><head><meta charset="UTF-8"/><meta name="viewport" content="width=device-width, initial-scale=1.0"/><title>Search · EPCAPE-CCN</title><script data-outdated-warner src="../assets/warner.js"></script><link href="https://cdnjs.cloudflare.com/ajax/libs/lato-font/3.0.0/css/lato-font.min.css" rel="stylesheet" type="text/css"/><link href="https://cdnjs.cloudflare.com/ajax/libs/juliamono/0.045/juliamono.min.css" rel="stylesheet" type="text/css"/><link href="https://cdnjs.cloudflare.com/ajax/libs/font-awesome/5.15.4/css/fontawesome.min.css" rel="stylesheet" type="text/css"/><link href="https://cdnjs.cloudflare.com/ajax/libs/font-awesome/5.15.4/css/solid.min.css" rel="stylesheet" type="text/css"/><link href="https://cdnjs.cloudflare.com/ajax/libs/font-awesome/5.15.4/css/brands.min.css" rel="stylesheet" type="text/css"/><link href="https://cdnjs.cloudflare.com/ajax/libs/KaTeX/0.13.24/katex.min.css" rel="stylesheet" type="text/css"/><script>documenterBaseURL=".."</script><script src="https://cdnjs.cloudflare.com/ajax/libs/require.js/2.3.6/require.min.js" data-main="../assets/documenter.js"></script><script src="../siteinfo.js"></script><script src="../../versions.js"></script><link class="docs-theme-link" rel="stylesheet" type="text/css" href="../assets/themes/documenter-dark.css" data-theme-name="documenter-dark" data-theme-primary-dark/><link class="docs-theme-link" rel="stylesheet" type="text/css" href="../assets/themes/documenter-light.css" data-theme-name="documenter-light" data-theme-primary/><script src="../assets/themeswap.js"></script></head><body><div id="documenter"><nav class="docs-sidebar"><a class="docs-logo" href="../"><img src="../assets/logo.jpg" alt="EPCAPE-CCN logo"/></a><div class="docs-package-name"><span class="docs-autofit"><a href="../">EPCAPE-CCN</a></span></div><form class="docs-search" action><input class="docs-search-query" id="documenter-search-query" name="q" type="text" placeholder="Search docs"/></form><ul class="docs-menu"><li><a class="tocitem" href="../">Home</a></li><li><a class="tocitem" href="../quicklook/">Quicklooks</a></li><li><a class="tocitem" href="../housekeeping/">Housekeeping</a></li></ul><div class="docs-version-selector field has-addons"><div class="control"><span class="docs-label button is-static is-size-7">Version</span></div><div class="docs-selector control is-expanded"><div class="select is-fullwidth is-size-7"><select id="documenter-version-selector"></select></div></div></div></nav><div class="docs-main"><header class="docs-navbar"><nav class="breadcrumb"><ul class="is-hidden-mobile"><li class="is-active"><a href>Search</a></li></ul><ul class="is-hidden-tablet"><li class="is-active"><a href>Search</a></li></ul></nav><div class="docs-right"><a class="docs-settings-button fas fa-cog" id="documenter-settings-button" href="#" title="Settings"></a><a class="docs-sidebar-button fa fa-bars is-hidden-desktop" id="documenter-sidebar-button" href="#"></a></div></header><article><p id="documenter-search-info">Loading search...</p><ul id="documenter-search-results"></ul></article><nav class="docs-footer"><p class="footer-message">Powered by <a href="https://github.com/JuliaDocs/Documenter.jl">Documenter.jl</a> and the <a href="https://julialang.org/">Julia Programming Language</a>.</p></nav></div><div class="modal" id="documenter-settings"><div class="modal-background"></div><div class="modal-card"><header class="modal-card-head"><p class="modal-card-title">Settings</p><button class="delete"></button></header><section class="modal-card-body"><p><label class="label">Theme</label><div class="select"><select id="documenter-themepicker"><option value="documenter-light">documenter-light</option><option value="documenter-dark">documenter-dark</option></select></div></p><hr/><p>This document was generated with <a href="https://github.com/JuliaDocs/Documenter.jl">Documenter.jl</a> version 0.27.24 on <span class="colophon-date" title="Wednesday 15 March 2023 20:40">Wednesday 15 March 2023</span>. Using Julia version 1.8.5.</p></section><footer class="modal-card-foot"></footer></div></div></div></body><script src="../search_index.js"></script><script src="../assets/search.js"></script></html>
